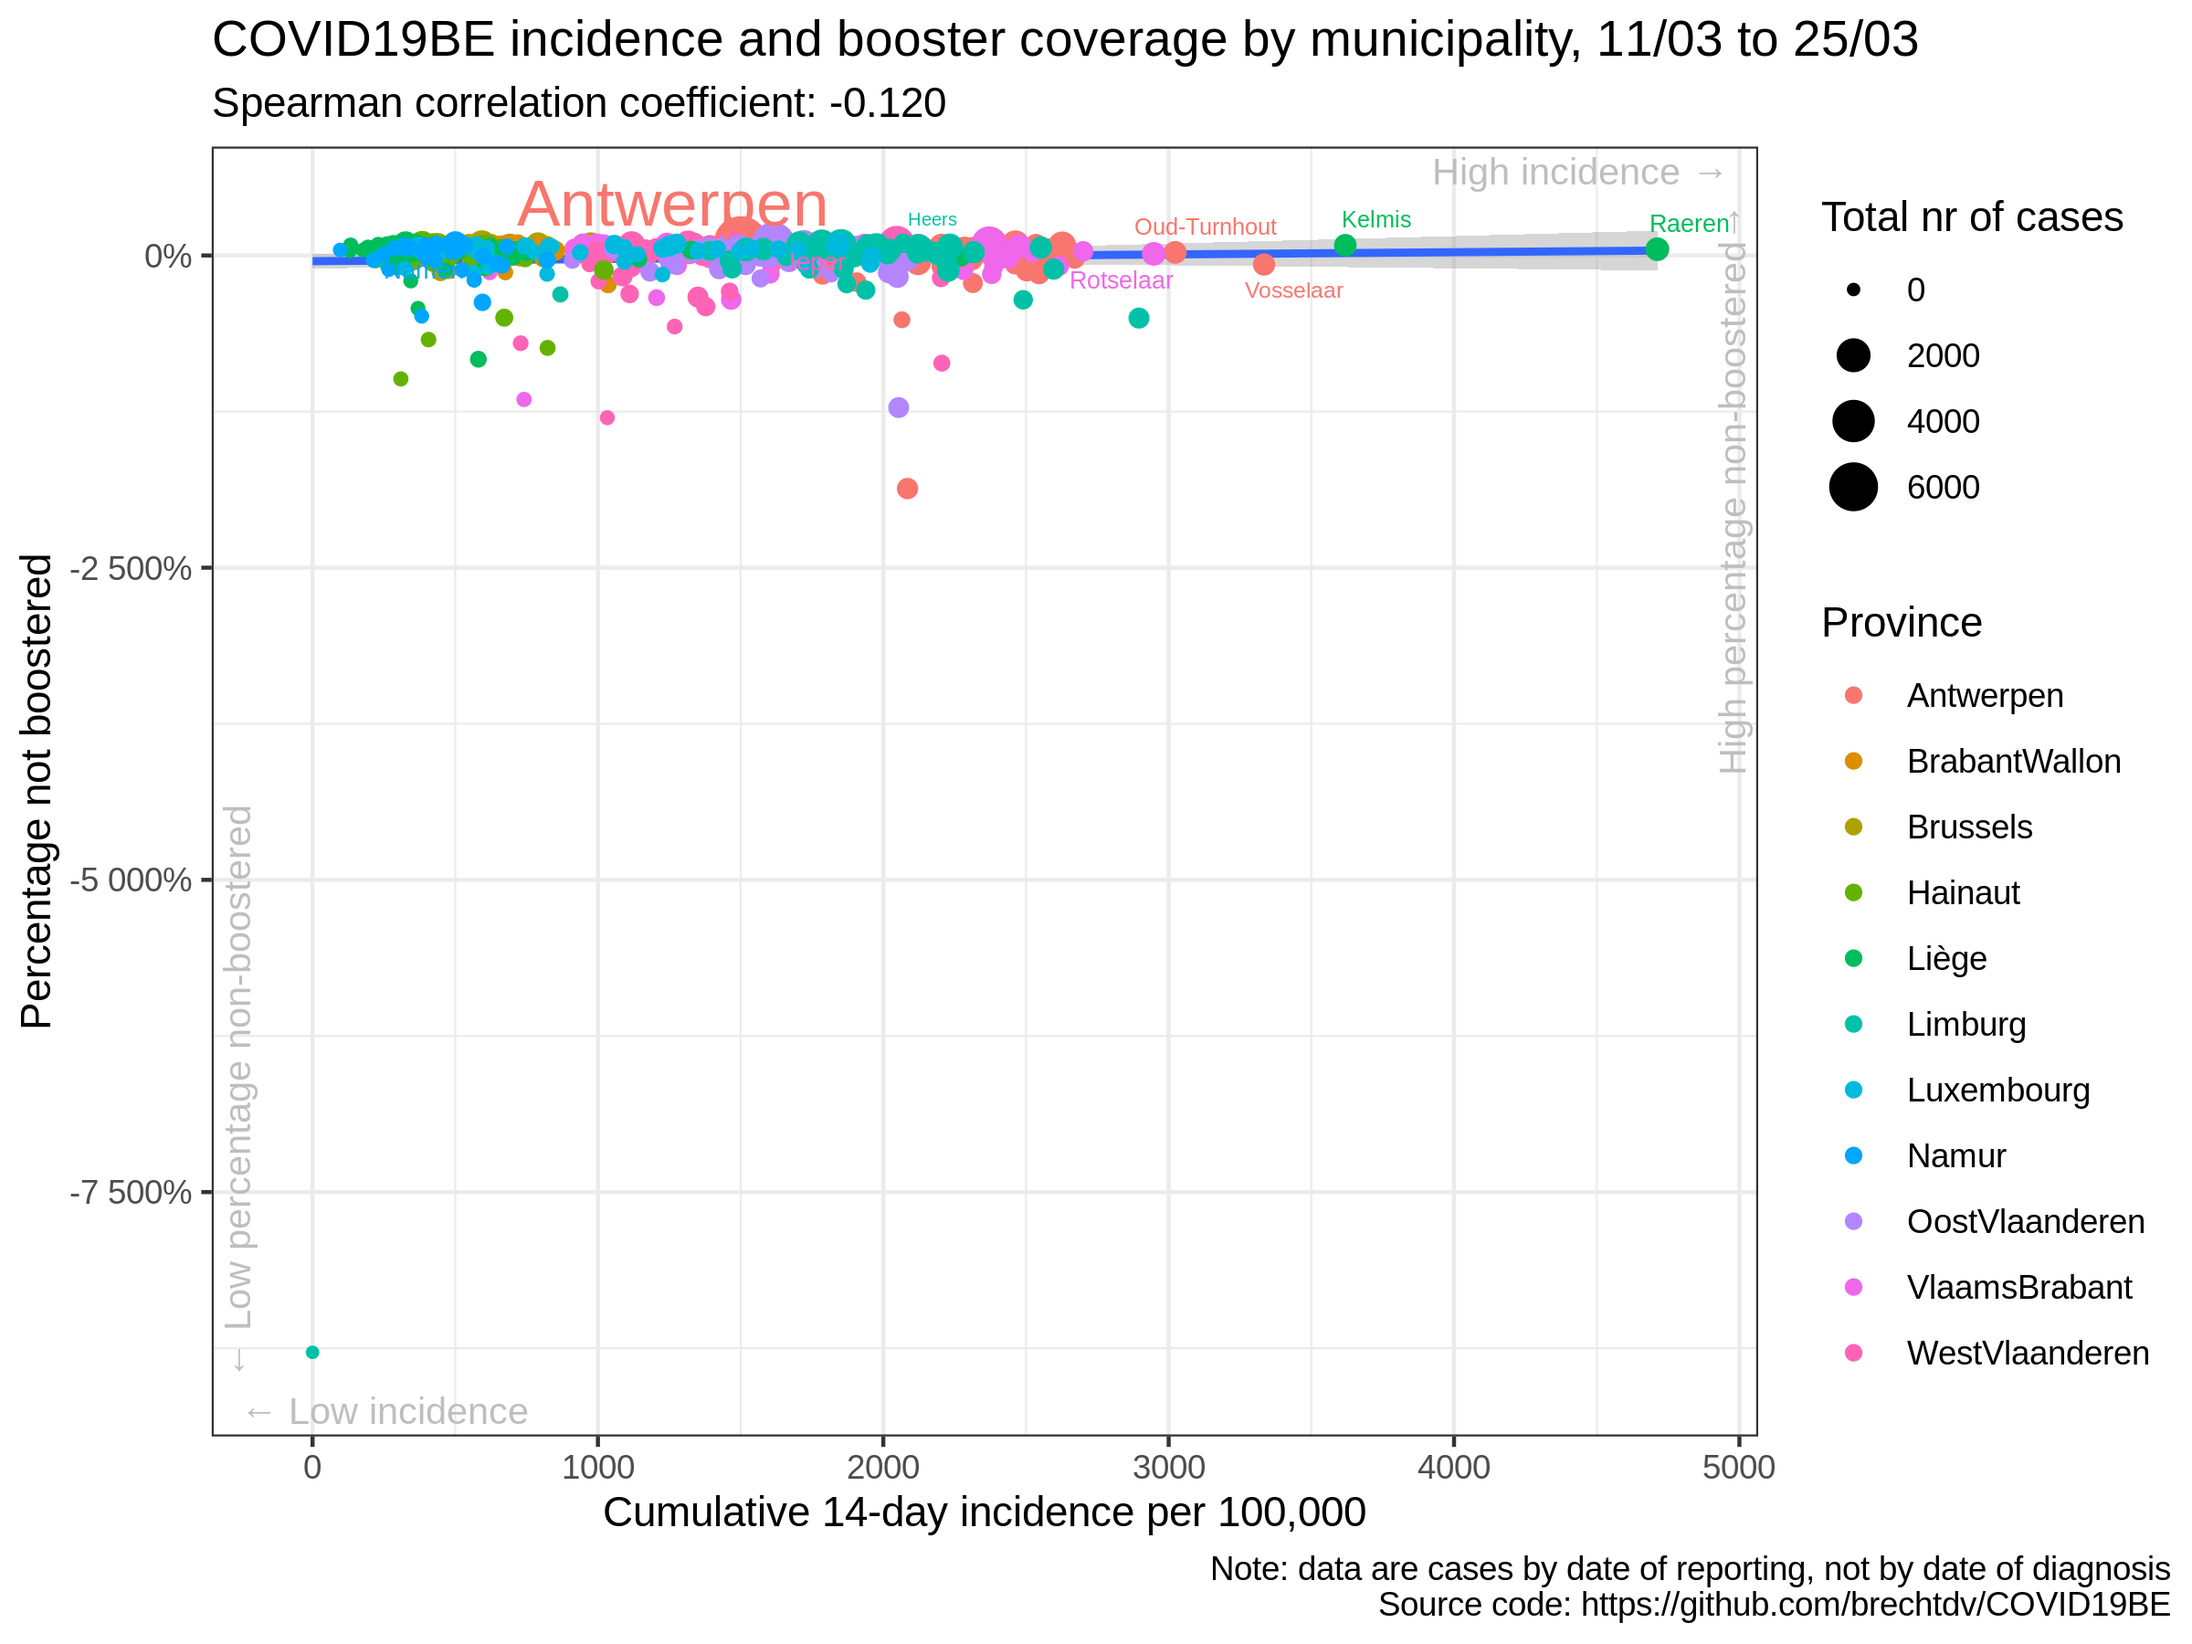
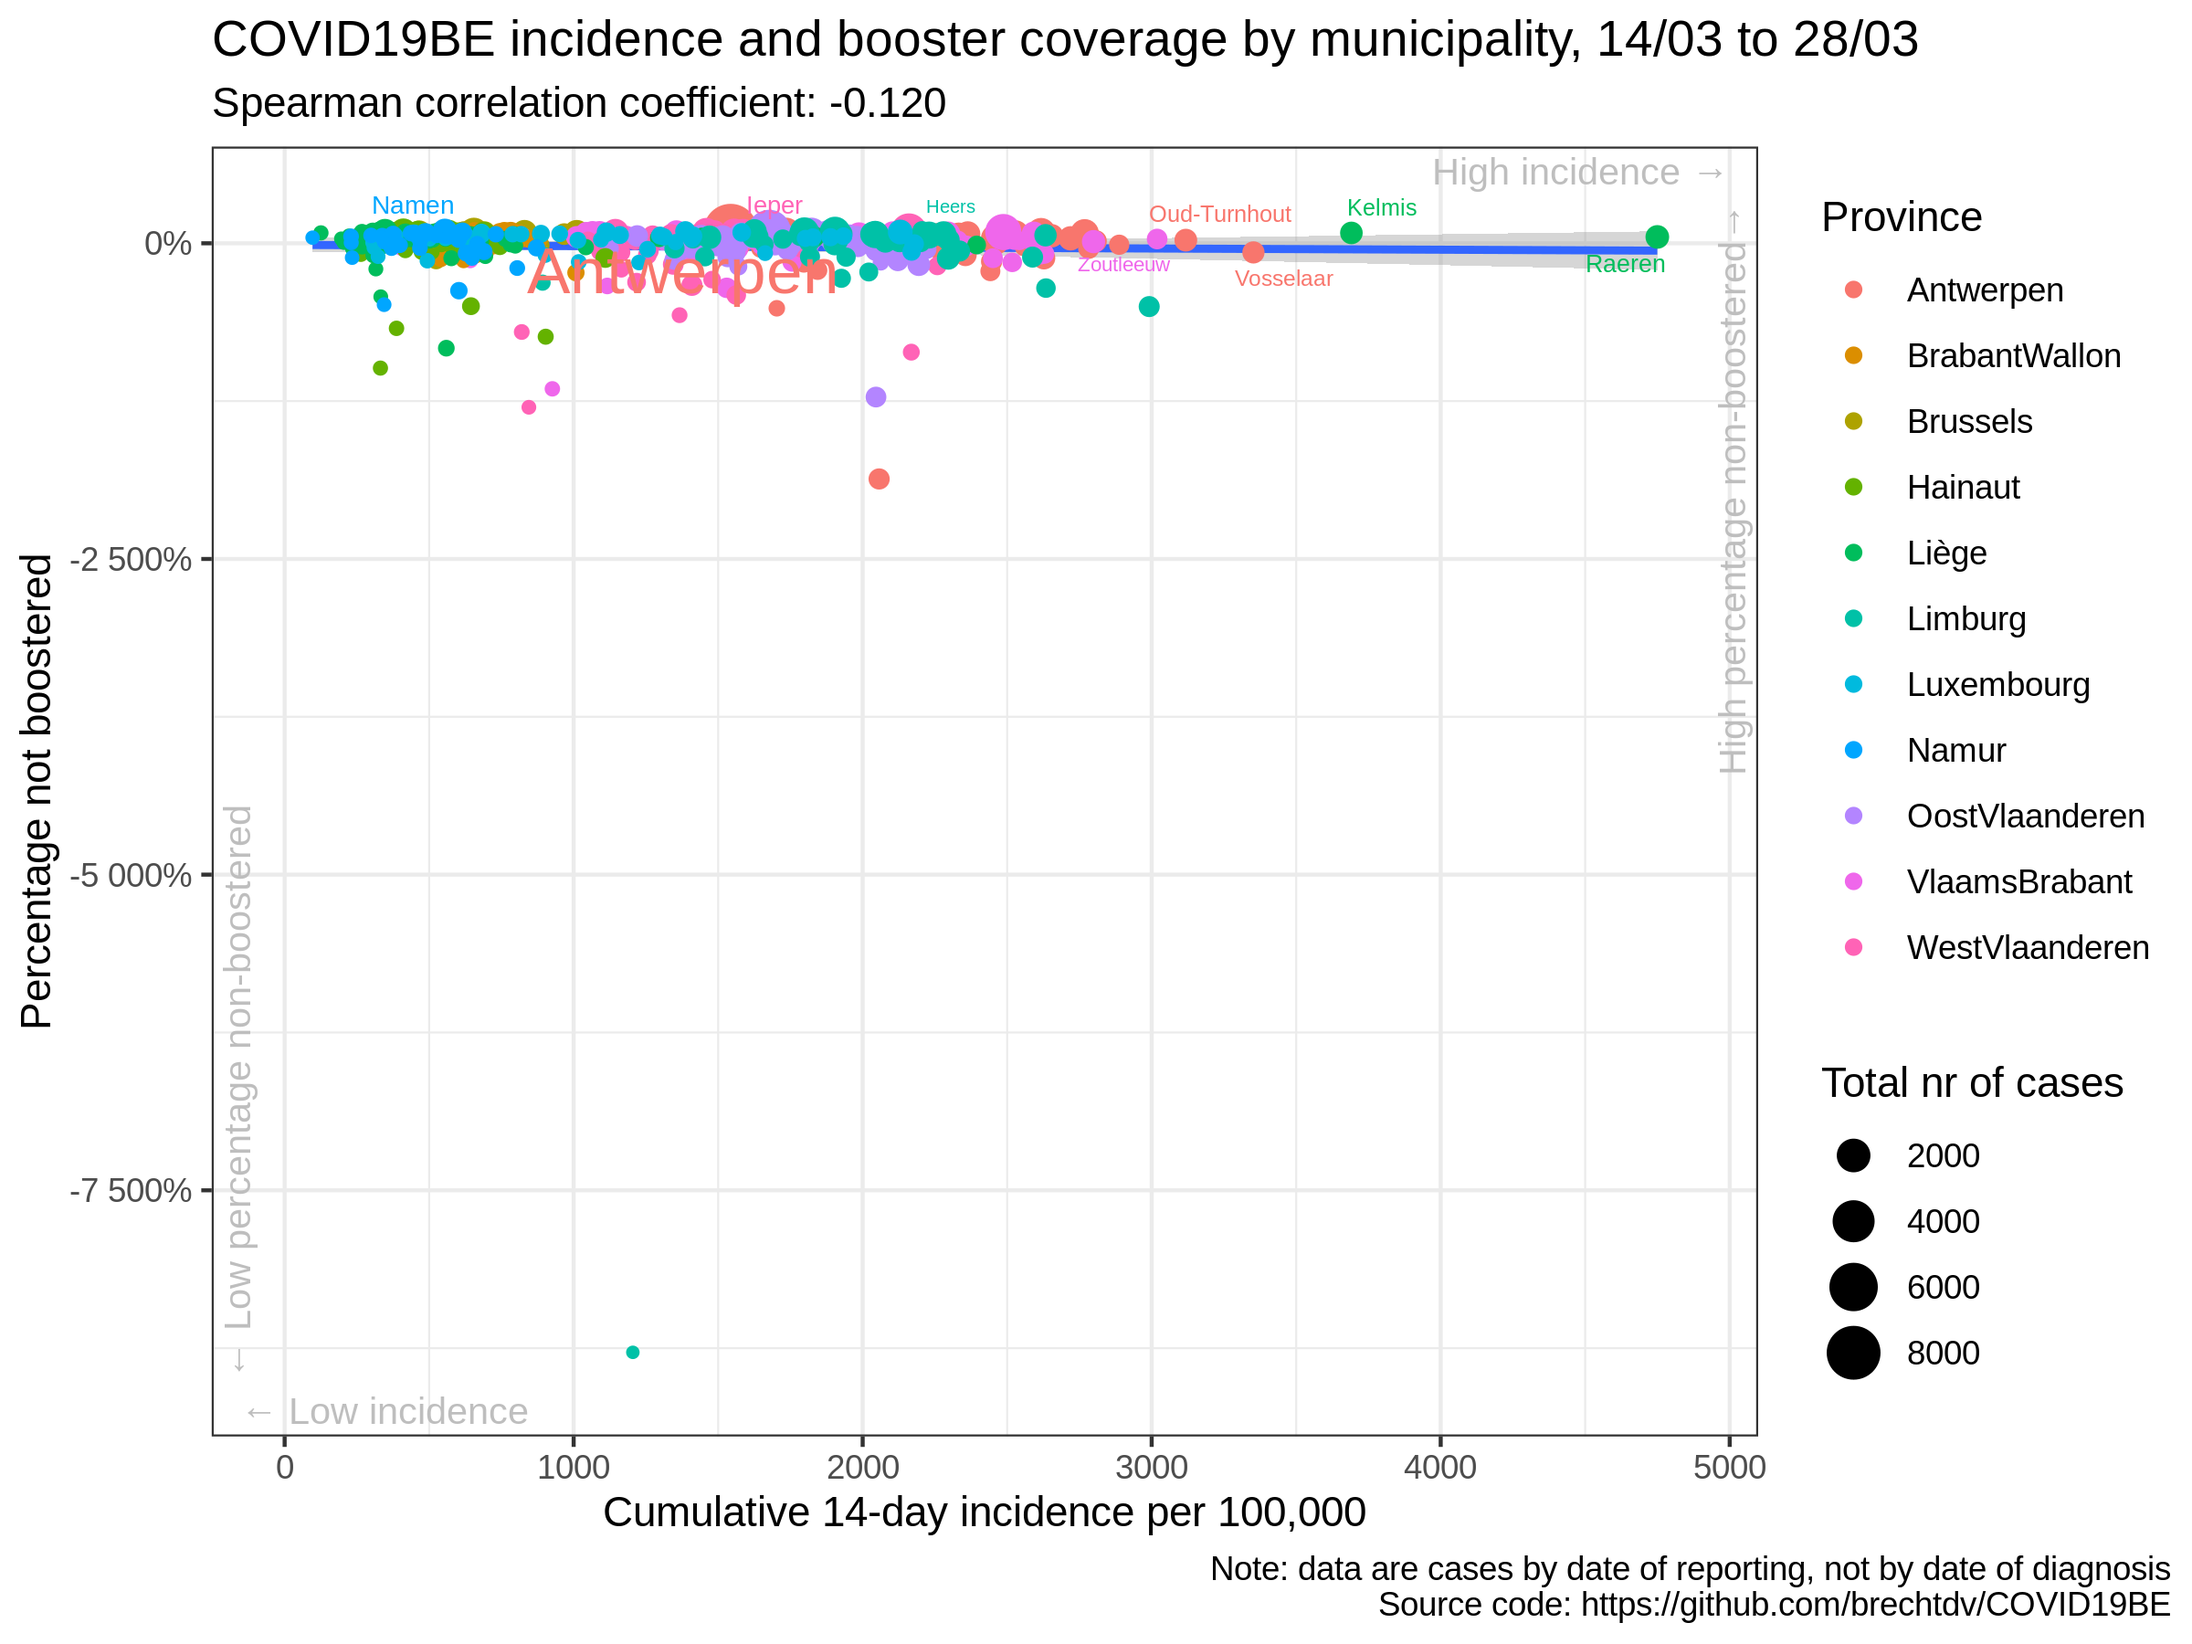
update situation

diff --git a/vaccination/README.md b/vaccination/README.md
@@ -17,34 +17,34 @@
 
 |                | estimate.rho | p.value |
 | :------------- | -----------: | ------: |
-| Antwerpen      |      \-0.043 |   0.723 |
-| BrabantWallon  |        0.040 |   0.844 |
-| Brussels       |        0.026 |   0.917 |
-| Hainaut        |      \-0.021 |   0.861 |
-| Liège          |      \-0.071 |   0.519 |
-| Limburg        |      \-0.038 |   0.813 |
-| Luxembourg     |        0.052 |   0.738 |
-| Namur          |      \-0.099 |   0.560 |
-| OostVlaanderen |      \-0.002 |   0.991 |
-| VlaamsBrabant  |      \-0.035 |   0.781 |
-| WestVlaanderen |        0.290 |   0.021 |
-| Belgium        |      \-0.063 |   0.128 |
+| Antwerpen      |        0.039 |   0.750 |
+| BrabantWallon  |        0.073 |   0.716 |
+| Brussels       |        0.070 |   0.776 |
+| Hainaut        |        0.016 |   0.894 |
+| Liège          |      \-0.089 |   0.419 |
+| Limburg        |      \-0.053 |   0.740 |
+| Luxembourg     |        0.066 |   0.668 |
+| Namur          |      \-0.082 |   0.629 |
+| OostVlaanderen |        0.007 |   0.958 |
+| VlaamsBrabant  |      \-0.029 |   0.817 |
+| WestVlaanderen |        0.276 |   0.027 |
+| Belgium        |      \-0.063 |   0.129 |
 
 ### Correlation cumulative incidence vs booster rate
 
 |                | estimate.rho | p.value |
 | :------------- | -----------: | ------: |
-| Antwerpen      |      \-0.045 |   0.713 |
-| BrabantWallon  |        0.041 |   0.840 |
-| Brussels       |        0.007 |   0.980 |
-| Hainaut        |      \-0.018 |   0.886 |
-| Liège          |      \-0.067 |   0.543 |
-| Limburg        |      \-0.038 |   0.809 |
-| Luxembourg     |        0.045 |   0.773 |
-| Namur          |      \-0.102 |   0.547 |
-| OostVlaanderen |        0.004 |   0.979 |
-| VlaamsBrabant  |      \-0.056 |   0.656 |
-| WestVlaanderen |        0.290 |   0.020 |
+| Antwerpen      |        0.037 |   0.764 |
+| BrabantWallon  |        0.073 |   0.718 |
+| Brussels       |        0.070 |   0.776 |
+| Hainaut        |        0.019 |   0.878 |
+| Liège          |      \-0.091 |   0.412 |
+| Limburg        |      \-0.056 |   0.725 |
+| Luxembourg     |        0.058 |   0.708 |
+| Namur          |      \-0.083 |   0.623 |
+| OostVlaanderen |        0.010 |   0.941 |
+| VlaamsBrabant  |      \-0.051 |   0.687 |
+| WestVlaanderen |        0.276 |   0.027 |
 | Belgium        |      \-0.120 |   0.004 |
 
 ### Data source
